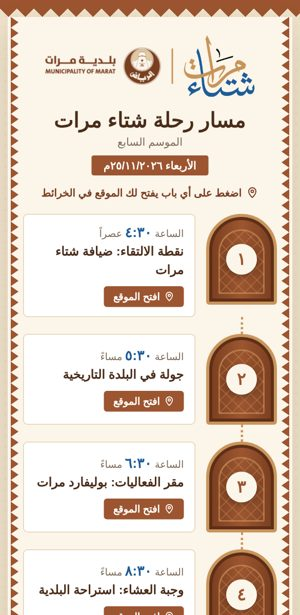
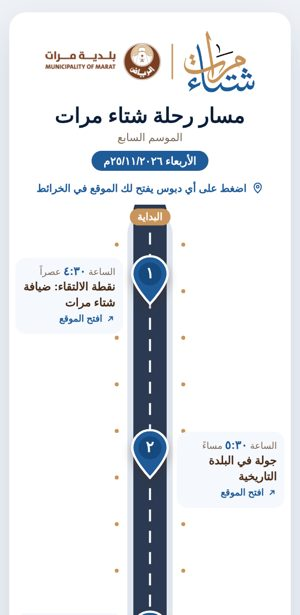
حذف تصميم الأبواب النجدية من مسار الرحلة
Claude-Session: https://claude.ai/code/session_01BNDTi5gFWkYV2YWwbX3ADq

diff --git a/shita/masar/5.html b/shita/masar/5.html
@@ -40,7 +40,7 @@ h1{font-family:"Reem Kufi",sans-serif;font-size:27px;margin-top:14px;color:var(-
 .pin b{position:absolute;top:11px;left:0;right:0;text-align:center;color:#fff;font-size:20px;font-weight:700}
 .stop:active .pin{transform:scale(.92)}
 @keyframes drop{from{opacity:0;transform:translateY(-30px)}to{opacity:1;transform:none}}
-.card{position:absolute;width:150px;top:4px;background:#fff;border:1.5px solid var(--sand2);border-radius:6px;padding:8px 10px;box-shadow:0 6px 16px rgba(74,44,26,.12)}
+.card{position:absolute;width:140px;top:4px;background:#fff;border:1.5px solid var(--sand2);border-radius:6px;padding:8px 10px;box-shadow:0 6px 16px rgba(74,44,26,.12)}
 .stop.r .card{right:62px}
 .stop.l .card{left:62px}
 .card .tm{font-size:12px;color:var(--muted)}
@@ -53,17 +53,16 @@ h1{font-family:"Reem Kufi",sans-serif;font-size:27px;margin-top:14px;color:var(-
 .foot b{color:var(--clay)}
 .foot a{color:var(--clay2);font-weight:600}
 
-.route{margin-top:20px!important;padding:0 10px}
-.dstop{display:flex;gap:14px;align-items:stretch;text-decoration:none;color:inherit;margin-bottom:22px;position:relative}
-.door5{flex:none;width:92px;height:118px;position:relative;background:linear-gradient(90deg,#7a3e20,#9c5530 50%,#7a3e20);border-radius:46px 46px 4px 4px;border:4px solid #c9955c;box-shadow:inset 0 0 0 4px #5e2f17;display:flex;align-items:center;justify-content:center;overflow:hidden}
-.door5:before{content:"";position:absolute;inset:16px 12px 10px;border:2px solid #c9955c99;border-radius:30px 30px 2px 2px;background:linear-gradient(45deg,transparent 46%,#c9955c55 46% 54%,transparent 54%) 0 0/16px 16px,linear-gradient(-45deg,transparent 46%,#c9955c55 46% 54%,transparent 54%) 0 0/16px 16px}
-.door5 b{position:relative;z-index:1;width:40px;height:40px;border-radius:50%;background:#fbf5ea;color:#9c5530;display:grid;place-items:center;font-size:22px;font-weight:700;box-shadow:0 3px 8px rgba(0,0,0,.3)}
-.info5{flex:1;background:#fff;border:1.5px solid var(--sand2);border-radius:6px;padding:12px 14px;display:flex;flex-direction:column;justify-content:center}
-.info5 .tm{font-size:13px;color:var(--muted)}.info5 .tm span{color:var(--blue);font-weight:700;font-size:18px;direction:ltr;unicode-bidi:isolate}
-.info5 h3{font-size:16px;font-weight:700;margin:3px 0 8px;line-height:1.5}
-.info5 .go{align-self:flex-start;display:inline-flex;align-items:center;gap:5px;font-size:13px;font-weight:600;color:#fff;background:var(--clay);padding:6px 12px;border-radius:4px}
-.info5 .go svg{width:14px;height:14px}
-.dstop:not(:last-child):after{content:"";position:absolute;right:44px;bottom:-22px;height:22px;border-right:3px dotted var(--gold)}
+body{background:#eef2f7!important;background-image:none!important}
+.wall{background:#fff!important;border-radius:22px;margin:16px 12px!important;box-shadow:0 20px 50px rgba(12,29,56,.12)!important}
+.wall:before,.wall:after,.cren{display:none}
+h1{color:#0c1d38!important;font-family:"IBM Plex Sans Arabic"!important;font-weight:700}
+.date{background:#1f5b98!important;border-radius:30px!important}
+.hint{color:#1f5b98!important}
+.card{border:none!important;border-radius:14px!important;background:#f5f8fc!important;box-shadow:none!important}
+.card .go{color:#1f5b98!important}
+.flag{background:#c9955c!important;border-radius:30px!important;font-family:"IBM Plex Sans Arabic"!important;font-weight:700}
+.foot b,.foot a{color:#1f5b98!important}
 </style>
 </head>
 <body>
@@ -76,10 +75,19 @@ h1{font-family:"Reem Kufi",sans-serif;font-size:27px;margin-top:14px;color:var(-
       <h1>مسار رحلة شتاء مرات</h1>
       <p class="sub">الموسم السابع</p>
       <span class="date">الأربعاء ٢٥/١١/٢٠٢٦م</span>
-      <p class="hint"><svg viewBox="0 0 24 24" fill="none" stroke="currentColor" stroke-width="2"><path d="M12 22s7-6.2 7-12a7 7 0 1 0-14 0c0 5.8 7 12 7 12z"/><circle cx="12" cy="10" r="2.5"/></svg>اضغط على أي باب يفتح لك الموقع في الخرائط</p>
+      <p class="hint"><svg viewBox="0 0 24 24" fill="none" stroke="currentColor" stroke-width="2"><path d="M12 22s7-6.2 7-12a7 7 0 1 0-14 0c0 5.8 7 12 7 12z"/><circle cx="12" cy="10" r="2.5"/></svg>اضغط على أي دبوس يفتح لك الموقع في الخرائط</p>
     </header>
 
-    <div class="route" id="route"></div>
+    <div class="route" id="route">
+      <svg class="road" viewBox="0 0 400 1120" id="roadSvg">
+  <rect x="166" y="10" width="68" height="1090" rx="34" fill="#dfe6ef"/>
+  <path id="roadPath" d="M200,10 V1100" fill="none" stroke="#2b3a52" stroke-width="50" stroke-linecap="round"/>
+  <path d="M200,10 V1100" fill="none" stroke="#fff" stroke-width="3" stroke-dasharray="18 14"/>
+  <g fill="#c9955c"><circle cx="150" cy="60" r="3"/><circle cx="250" cy="60" r="3"/><circle cx="150" cy="130" r="3"/><circle cx="250" cy="130" r="3"/><circle cx="150" cy="200" r="3"/><circle cx="250" cy="200" r="3"/><circle cx="150" cy="270" r="3"/><circle cx="250" cy="270" r="3"/><circle cx="150" cy="340" r="3"/><circle cx="250" cy="340" r="3"/><circle cx="150" cy="410" r="3"/><circle cx="250" cy="410" r="3"/><circle cx="150" cy="480" r="3"/><circle cx="250" cy="480" r="3"/><circle cx="150" cy="550" r="3"/><circle cx="250" cy="550" r="3"/><circle cx="150" cy="620" r="3"/><circle cx="250" cy="620" r="3"/><circle cx="150" cy="690" r="3"/><circle cx="250" cy="690" r="3"/><circle cx="150" cy="760" r="3"/><circle cx="250" cy="760" r="3"/><circle cx="150" cy="830" r="3"/><circle cx="250" cy="830" r="3"/><circle cx="150" cy="900" r="3"/><circle cx="250" cy="900" r="3"/><circle cx="150" cy="970" r="3"/><circle cx="250" cy="970" r="3"/><circle cx="150" cy="1040" r="3"/><circle cx="250" cy="1040" r="3"/></g>
+</svg>
+      <div class="flag" id="startFlag">البداية</div>
+      <div class="flag" id="endFlag">النهاية</div>
+    </div>
 
     <p class="foot">للاستفسار: <a href="tel:0566611262"><bdo dir="ltr">٠٥٦ ٦٦١ ١٢٦٢</bdo></a><br>مع تحيات <b>بلدية محافظة مرات</b></p>
   </div>
@@ -93,9 +101,25 @@ const STOPS = [
   {n:"٣", time:"٦:٣٠", when:"مساءً", title:"مقر الفعاليات: بوليفارد مرات", url:"https://maps.app.goo.gl/f8JwgLzqxqVq2drF8", at:0.62},
   {n:"٤", time:"٨:٣٠", when:"مساءً", title:"وجبة العشاء: استراحة البلدية", url:"https://maps.app.goo.gl/jfT38bAYYDaQ3d4D6", at:0.86}
 ];
-const route=document.getElementById("route");
-const pin='<svg viewBox="0 0 24 24" fill="none" stroke="currentColor" stroke-width="2"><path d="M12 22s7-6.2 7-12a7 7 0 1 0-14 0c0 5.8 7 12 7 12z"/><circle cx="12" cy="10" r="2.5"/></svg>';
-STOPS.forEach(s=>{route.insertAdjacentHTML("beforeend",'<a class="dstop" href="'+s.url+'" target="_blank" rel="noopener"><div class="door5"><b>'+s.n+'</b></div><div class="info5"><div class="tm">الساعة <span>'+s.time+'</span> '+s.when+'</div><h3>'+s.title+'</h3><span class="go">'+pin+'افتح الموقع</span></div></a>')});
+const route=document.getElementById("route"), svg=document.getElementById("roadSvg"), path=document.getElementById("roadPath");
+const pinSvg='<svg viewBox="0 0 54 66"><path d="M27 64C27 64 4 40 4 25A23 23 0 0 1 50 25C50 40 27 64 27 64Z" fill="#1f5b98" stroke="#fff" stroke-width="3"/><circle cx="27" cy="25" r="15" fill="#164a7f"/></svg>';
+const goIc='<svg viewBox="0 0 24 24" fill="none" stroke="currentColor" stroke-width="2.4"><path d="M7 17 17 7M9 7h8v8"/></svg>';
+const L=path.getTotalLength();
+STOPS.forEach((s,i)=>{
+  const p=path.getPointAtLength(L*s.at);
+  const a=document.createElement("a");
+  a.href=s.url; a.target="_blank"; a.rel="noopener";
+  a.className="stop "+(i%2?"l":"r");
+  a.style.left=(p.x/400*100)+"%"; a.style.top=(p.y/1120*100)+"%";
+  a.innerHTML='<div class="pin" style="animation-delay:'+(0.2+i*0.25)+'s">'+pinSvg+'<b>'+s.n+'</b></div>'+
+    '<div class="card"><div class="tm">الساعة <span>'+s.time+'</span> '+s.when+'</div><h3>'+s.title+'</h3><span class="go">'+goIc+'افتح الموقع</span></div>';
+  route.appendChild(a);
+});
+// البداية والنهاية
+const sp=path.getPointAtLength(0), ep=path.getPointAtLength(L);
+const sf=document.getElementById("startFlag"), ef=document.getElementById("endFlag");
+sf.style.left=(sp.x/400*100)+"%"; sf.style.top=((sp.y+8)/1120*100)+"%";
+ef.style.left=(ep.x/400*100)+"%"; ef.style.top=((ep.y-6)/1120*100)+"%";
 </script>
 </body>
 </html>

diff --git a/shita/masar/index.html b/shita/masar/index.html
@@ -11,6 +11,5 @@ h1{font-family:"Reem Kufi";text-align:center;font-size:26px}.s{text-align:center
 <a class="c" href="2.html"><img src="thumb2.jpg" alt=""><div><span class="n">٢</span><h2>شكل الخريطة</h2><p>شوارع مثل الخرائط، والمسار مرسوم بين المحطات بدبابيس حمراء</p><span class="g">جرّب التصميم</span></div></a>
 <a class="c" href="3.html"><img src="thumb3.jpg" alt=""><div><span class="n">٣</span><h2>ليلة شتوية</h2><p>طريق ليلي بفوانيس مضيئة، وسماء فيها نجوم وثلج خفيف</p><span class="g">جرّب التصميم</span></div></a>
 <a class="c" href="4.html"><img src="thumb4.jpg" alt=""><div><span class="n">٤</span><h2>الخريطة القديمة</h2><p>ورق قديم وبوصلة، والمسار نقاط متقطعة مثل خرائط الرحّالة</p><span class="g">جرّب التصميم</span></div></a>
-<a class="c" href="5.html"><img src="thumb5.jpg" alt=""><div><span class="n">٥</span><h2>الأبواب النجدية</h2><p>كل محطة باب نجدي برقمها، وتحته زر يفتح الموقع</p><span class="g">جرّب التصميم</span></div></a>
-<a class="c" href="6.html"><img src="thumb6.jpg" alt=""><div><span class="n">٦</span><h2>الطريق المستقيم</h2><p>تصميم حديث بألوان شعار شتاء مرات، وطريق مستقيم والمحطات على جانبيه</p><span class="g">جرّب التصميم</span></div></a>
+<a class="c" href="5.html"><img src="thumb5.jpg" alt=""><div><span class="n">٥</span><h2>الطريق المستقيم</h2><p>تصميم حديث بألوان شعار شتاء مرات، وطريق مستقيم والمحطات على جانبيه</p><span class="g">جرّب التصميم</span></div></a>
 </div></body></html>
